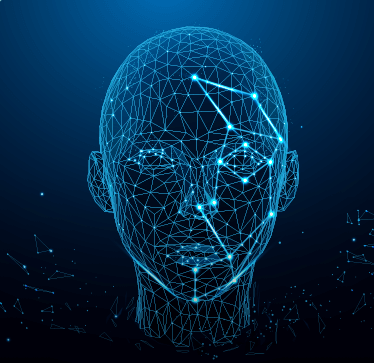
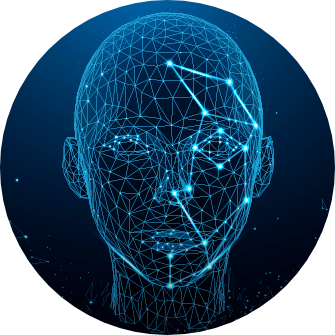
trade interface finitions

diff --git a/soloJs/gui.js b/soloJs/gui.js
@@ -452,9 +452,6 @@ function observeAi(ai){
 
                //BEFORE SWITCHING TO ANOTHER PLAYER, CLEAR THE BUILDING PROPOSITION OBJECT.
 
-               clearInBuildingProposition();
-
-
                //INIT THE OFFERER DIV AS WELL (UNLESS IF THERE WAS NO OBSERVED PLAYER ==> THE ADD BUTTON WAS POSSIBLY MODIFIED)
 
 
@@ -2164,21 +2161,72 @@ function displayTradeDiv(type,player,color){
 
 
                let addBtn = document.createElement('button');
+               addBtn.setAttribute('class' , 'cardBtn');
+
      
                if(type == tradeOfferer){
+
+                 if(humanPlayer.inBuildingProposition != none){         
      
-                    addBtn.setAttribute('onclick', 'addOfferElement(event,' + humanPlayer.playerIndex + ',' + property.elementIndex + ')' );
-     
+
+                  if(humanPlayer.inBuildingProposition.offer[property.elementIndex] != undefined){
+
+                         
+                         addBtn.innerHTML = '-';
+
+                         addBtn.setAttribute('onclick', 'removeOfferElement(event ,' + humanPlayer.playerIndex + ',' + property.elementIndex + ')' );
+
+
+                    } else {
+
+                         addBtn.innerHTML = '+';
+                         addBtn.setAttribute('onclick', "addOfferElement(event , " + humanPlayer.playerIndex +  "," +  property.elementIndex + ")");
+                         
+                    }
+
+               } else {
+
+                    addBtn.innerHTML = '+';
+                    addBtn.setAttribute('onclick', "addOfferElement(event , " + humanPlayer.playerIndex +  "," +  property.elementIndex + ")");
+                    
+               }
      
                } else {
+
+                  if(humanPlayer.inBuildingProposition != none){         
+                         
+
+                     if(humanPlayer.inBuildingProposition.counterPartAsked[property.elementIndex] != undefined){
+
+                         
+                         addBtn.innerHTML = '-';
+
+                         addBtn.setAttribute('onclick', 'removeCounterPartAskedFromProposition(event , ' + humanPlayer.playerIndex + ',' + property.elementIndex + ')');
+                         
+
+
+                    } else {
+
+                         addBtn.innerHTML = '+';
+
+                         addBtn.setAttribute('onclick' , 'addCounterPartAskedElementToProposition(event ,' + humanPlayer.playerIndex + ',' + observedPlayer.playerIndex + ',' + property.elementIndex + ')'); 
+
+                    }
+
+               
+                    
+                 }else { 
+                      
+                    addBtn.innerHTML = '+';
+
+                    addBtn.setAttribute('onclick' , 'addCounterPartAskedElementToProposition(event ,' + humanPlayer.playerIndex + ',' + observedPlayer.playerIndex + ',' + property.elementIndex + ')'); 
+
+                }
      
-                    addBtn.setAttribute('onclick', 'addCounterPartAskedElementToProposition(event,' + humanPlayer.playerIndex + ',' + player.playerIndex + ',' + property.elementIndex + ')' ); 
      
                }
      
-               addBtn.setAttribute('class' , 'cardBtn');
      
-               addBtn.innerHTML = '+';
 
                document.getElementById(type+'Div_propertyTemplate_' + color.units + '_property_' + i + '_btnContainer').append(addBtn);
 
@@ -2259,6 +2307,8 @@ function displayTradeDiv(type,player,color){
 
 function observePlayer(player){
 
+     clearInBuildingProposition();
+     
      observedPlayer = player;
 
      observeAi(player);

diff --git a/style/style.css b/style/style.css
@@ -1965,7 +1965,6 @@ presentation of properties
   .legendsDivAAAA{
     height:100%;
     width: 35%;
-    background:red;
   }
 
   .legendsDivAAAB{
@@ -2022,7 +2021,7 @@ presentation of properties
 }
 
 .idDivAInt{
-  height:50%;
+  height:70%;
   width:100%;
   display:flex;
   justify-content:center; 
@@ -2032,8 +2031,8 @@ presentation of properties
 
 
 .idDivAAInt{
-   height:2.25vw;
-   width:2.25vw;
+   height:4vw;
+   width:4vw;
    display:flex;
    justify-content: center;
    align-items: center;
@@ -2045,13 +2044,14 @@ presentation of properties
 
 .idDivBInt{
 
-  height:40%;
+  height:30%;
   width:100%;
   display:flex;
   flex-direction:column;
   justify-content: space-around;
   align-items:flex-start;
   margin-left:5%;
+  margin-bottom: 5%;
   font-size: 0.7vw;
 
 }
@@ -2792,7 +2792,6 @@ justify-content: space-around;
   flex-direction:column;
   align-items:center;
   justify-content: space-around;
-  opacity:0.55; 
 }
 
 
@@ -2859,8 +2858,8 @@ justify-content: space-around;
 }
 
 .tradeScreenAAAA{
-  height:1.25vw;
-  width:1.25vw;
+  height:1.5vw;
+  width:1.5vw;
   display:flex;
   justify-content: center;
   align-items: center;

diff --git a/soloJs/init.js b/soloJs/init.js
@@ -11,10 +11,8 @@ function init(){
 
   //buildBoard();  
   //setColorScores();
-  
-  removePlayer(humanPlayer);
 
-  launchDicesAndMovePieces();
+
 
   
     setInterval(
@@ -58,13 +56,30 @@ function init(){
 
       
    
-        buildBoardPresentationCircles(ai2)
-        buildBoardPresentationBars(ai2)
+        buildBoardPresentationCircles(ai2);
+        buildBoardPresentationBars(ai2);
 
    
      
   
       },500);
+
+      setTimeout(function(){
+
+      
+   
+        buildBoardPresentationCircles(ai3);
+        buildBoardPresentationBars(ai3);
+
+   
+     
+  
+      },600);
+
+      
+
+
+      
 
 
 

diff --git a/soloJs/creation.js b/soloJs/creation.js
@@ -1293,7 +1293,7 @@ function processPropositionAndAnswer(offerer, answerer, proposition){
 function clearInBuildingProposition(){
 
 
-	user.inBuildingProposition = none;
+	humanPlayer.inBuildingProposition = none;
 
 
 }

diff --git a/soloGame.php b/soloGame.php
@@ -313,7 +313,7 @@
     
        <div class="idDivAAInt">
                  
-            <img src="./img/aiface.png" style="height:92.5%; width:92.5%">
+            <img src="./img/man.png" style="height:92.5%; width:92.5%">
 
        </div>
 
@@ -728,12 +728,12 @@
                     <button style='opacity:0; height:100%; width:100%; position:absolute; left:0%; top:0% ' onclick='displayNewAnswerer(ai1)'></button>
               </div>
               <div id='ai2_avatar' style='position:relative; opacity:0.3; height:30%; width:5%; display:flex; justify-content:center; align-items:center; background:rgb(0,255,0,0.8); border-radius:30px ; margin-left:1.5% ; cursor:pointer'>
-                    <img style='height: 86%;width: 86%;'  src="./img/aiface.png">
+                    <img style='height: 86%;width: 86%;'  src="./img/woman.png">
                     <button style='opacity:0; height:100%; width:100%; position:absolute; left:0%; top:0% ' onclick='displayNewAnswerer(ai2)'></button>
 
               </div>
               <div id='ai3_avatar' style='position:relative; opacity:0.3;height:30%; width:5%; display:flex; justify-content:center; align-items:center; background:rgb(0,255,0, 0.8); border-radius:30px ; margin-left:1.5% ; cursor:pointer'>
-                    <img style='height: 86%;width: 86%;'  src="./img/aiface.png">
+                    <img style='height: 86%;width: 86%;'  src="./img/woman2.png">
                     <button style='opacity:0; height:100%; width:100%; position:absolute; left:0%; top:0% ' onclick='displayNewAnswerer(ai3)'></button>
 
               </div>
@@ -3787,7 +3787,7 @@
     
        <div class='idDivAAInt'>
                  
-            <img src="./img/aiface.png" style='height:92.5%; width:92.5%'>
+            <img src="./img/woman.png" style='height:92.5%; width:92.5%'>
 
        </div>
 
@@ -4205,7 +4205,7 @@
 
 <div class='idDivAAInt'>
        
-  <img src="./img/aiface.png" style='height:92.5%; width:92.5%'>
+  <img src="./img/woman2.png" style='height:92.5%; width:92.5%'>
 
 </div>
 
@@ -7005,7 +7005,7 @@
                    
                       <div class="idDivAA">
                                 
-                           <img src="./img/aiface.png" style="height:90%; width:90%; margin-left:0.5%">
+                           <img src="./img/man.png" style="height:90%; width:90%; margin-left:0.5%">
 
                       </div>
 
@@ -7601,7 +7601,7 @@
      </div><div class="mobilePresentationsContainerAA">
           <div class="mobilePresentationsContainerAAA">
                 <div class="mobileAvatarContainer">
-                     <img class="offererImgTradeScreen" style="height:92.5%; width:92.5%;" src="./img/aiface.png">
+                     <img class="offererImgTradeScreen" style="height:92.5%; width:92.5%;" src="./img/man.png">
                 </div>
           </div>
           <div class="mobilePresentationsContainerAAB">
@@ -7757,7 +7757,7 @@
      <div class="mobilePresentationsContainerAA">
           <div class="mobilePresentationsContainerAAA">
                 <div class="mobileAvatarContainer">
-                     <img class="offererImgTradeScreen" style="height:92.5%; width:92.5%;" src="./img/aiface.png">
+                     <img class="offererImgTradeScreen" style="height:92.5%; width:92.5%;" src="./img/woman.png">
                 </div>
           </div>
           <div class="mobilePresentationsContainerAAB">
@@ -7907,7 +7907,7 @@
      </div><div class="mobilePresentationsContainerAA">
           <div class="mobilePresentationsContainerAAA">
                 <div class="mobileAvatarContainer">
-                     <img class="offererImgTradeScreen" style="height:92.5%; width:92.5%;" src="./img/aiface.png">
+                     <img class="offererImgTradeScreen" style="height:92.5%; width:92.5%;" src="./img/woman2.png">
                 </div>
           </div>
           <div class="mobilePresentationsContainerAAB">
@@ -9093,7 +9093,7 @@
         <div class='tradeScreenAA'>
             <div class='tradeScreenAAA'>
                 <div class='tradeScreenAAAA'>
-                     <img class='offererImgTradeScreen' style='height:92.5%; width:92.5%;' src='./img/aiface.png'></img>
+                     <img class='offererImgTradeScreen' style='height:92.5%; width:92.5%;' src='./img/woman.png'></img>
                 </div>
                 <div class='tradeScreenAAAB'></div>
             </div>
@@ -10160,7 +10160,7 @@
                    
                       <div class="idDivAA">
                                 
-                           <img src="./img/aiface.png" style="height:90%; width:90%; margin-left:0.5%">
+                           <img src="./img/woman.png" style="height:90%; width:90%; margin-left:0.5%">
 
                       </div>
 
@@ -10575,7 +10575,7 @@
                    
                       <div class="idDivAA">
                                 
-                           <img src="./img/aiface.png" style="height:90%; width:90%; margin-left:0.5%">
+                           <img src="./img/woman2.png" style="height:90%; width:90%; margin-left:0.5%">
 
                       </div>
 
